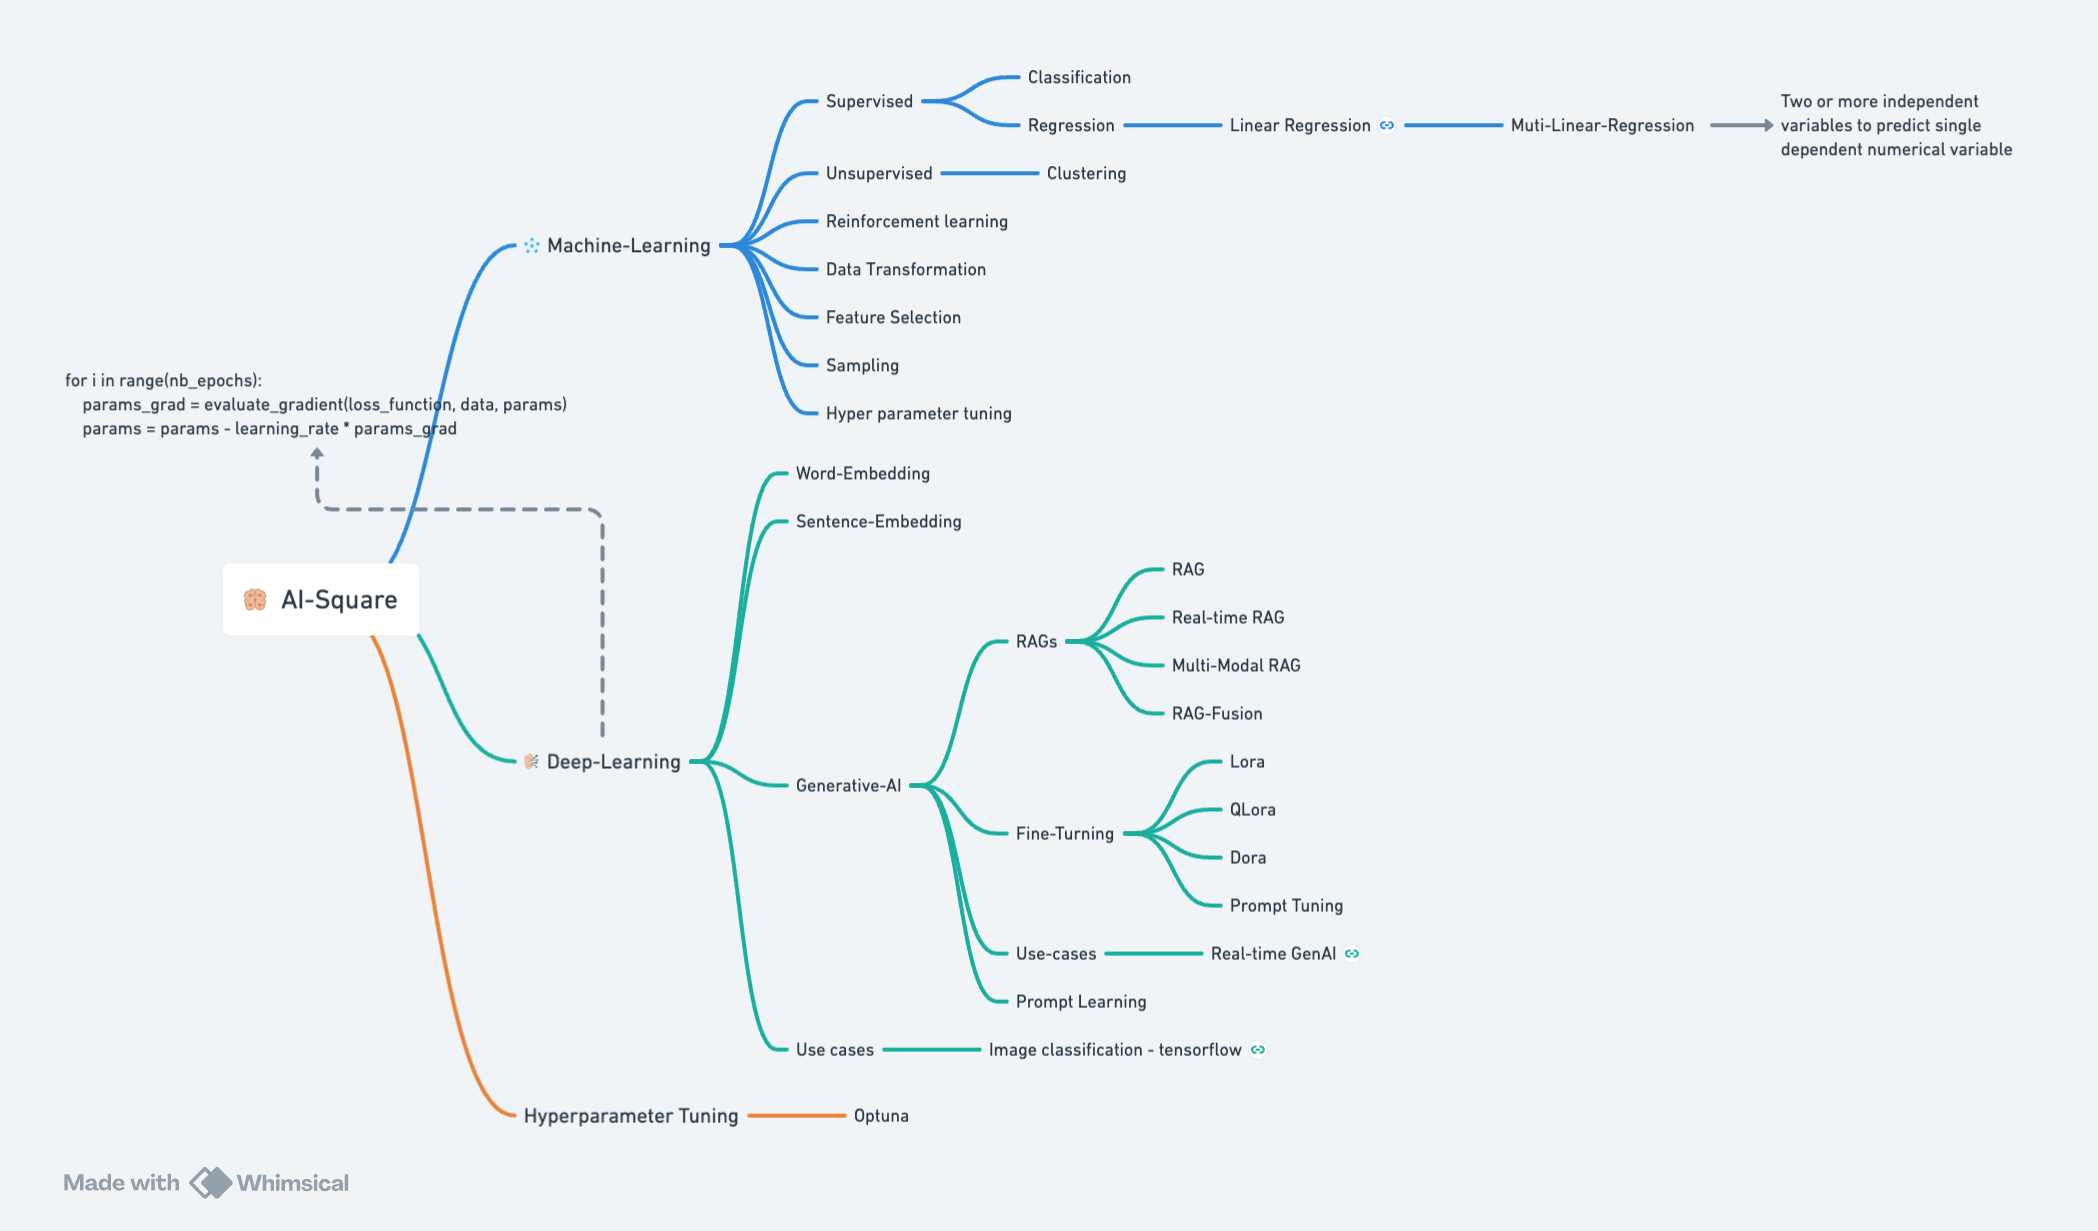
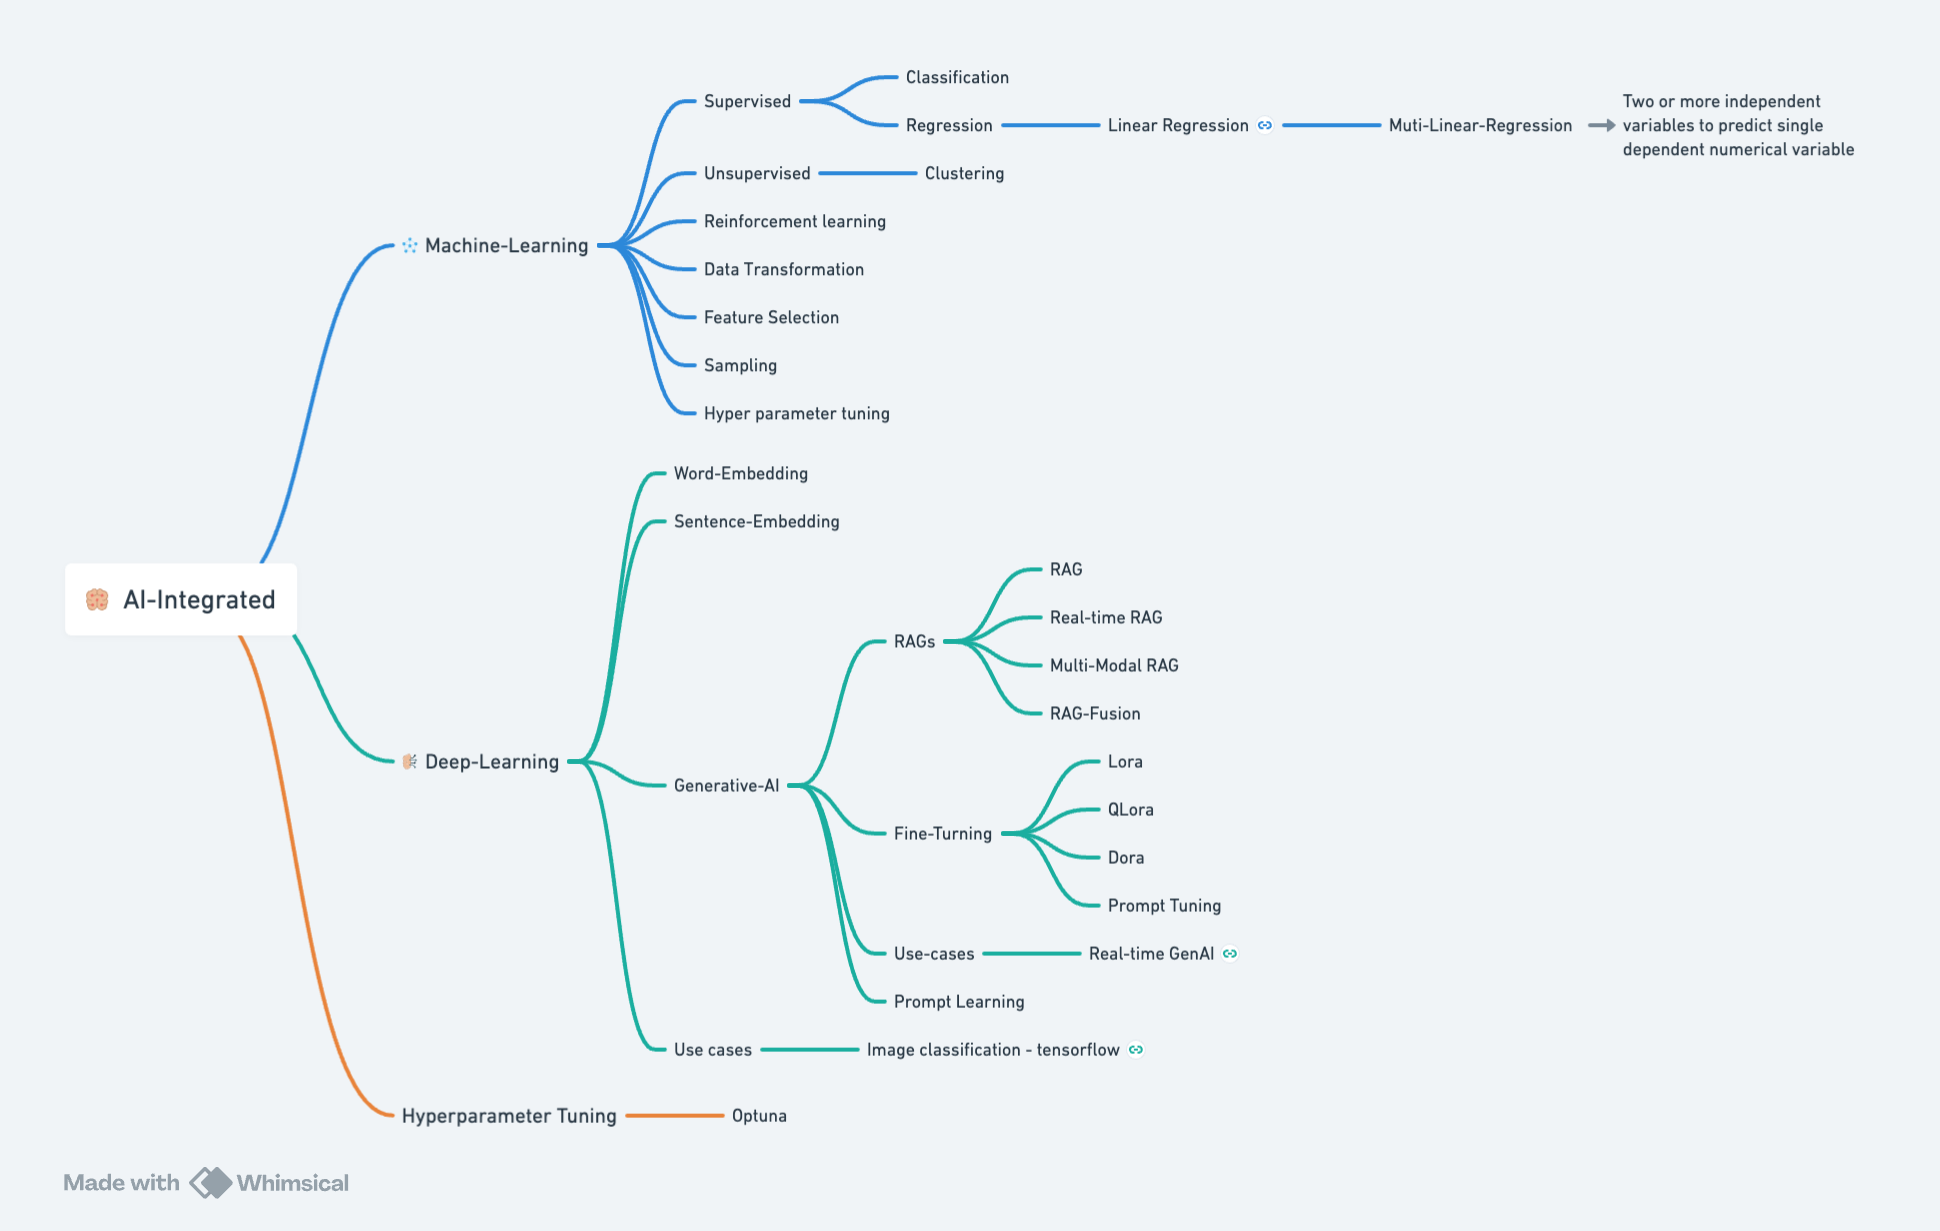
about

diff --git a/README.md b/README.md
@@ -1,2 +1,11 @@
-# ai-integrated 
+# ai-integrated
+## About
+I primarily come from a backend development background. When I started learning data science and machine learning on my own, it was challenging to connect the dots since the materials were scattered around like piecemeal. With the advent of ChatGPT, AI became a hot topic, and everyone wanted to get involved. When colleagues, friends, and students approached me for discussions, it was difficult to provide a single point of reference where they could get a complete picture of what we were talking about. That’s when I decided to create an integrated learning space for AI. It’s common for people to be confused with AI, Data Science, ML, DL, and General AI. This space will offer a better understanding of each one of them and how they are related.
+
+## Machine Learning and Deep Learning synopsis 
+
+for i in range(nb_epochs):   
+    params_grad = evaluate_gradient(loss_function, data, params)           
+    params = params - learning_rate * params_grad
+
 ![Alt Text](assets/AI-Integrated.png)
